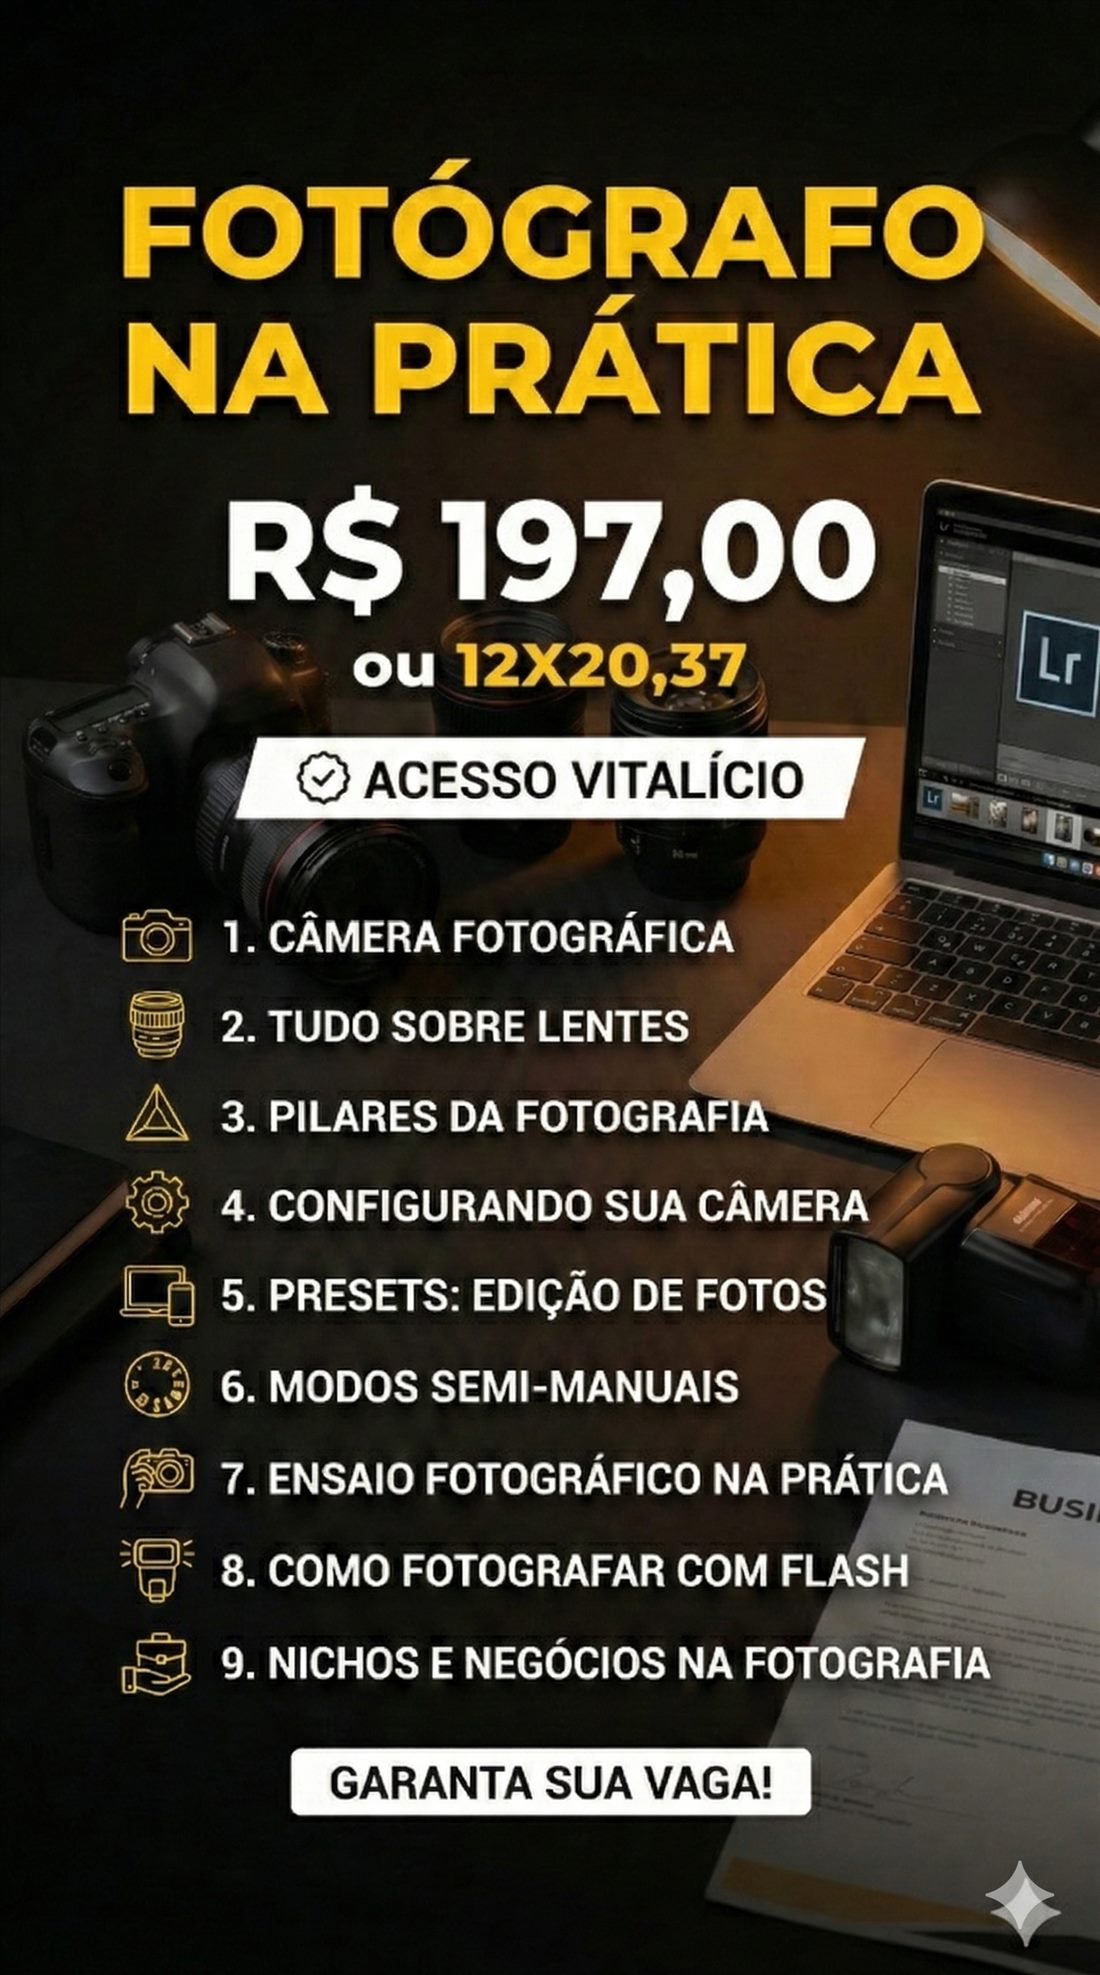
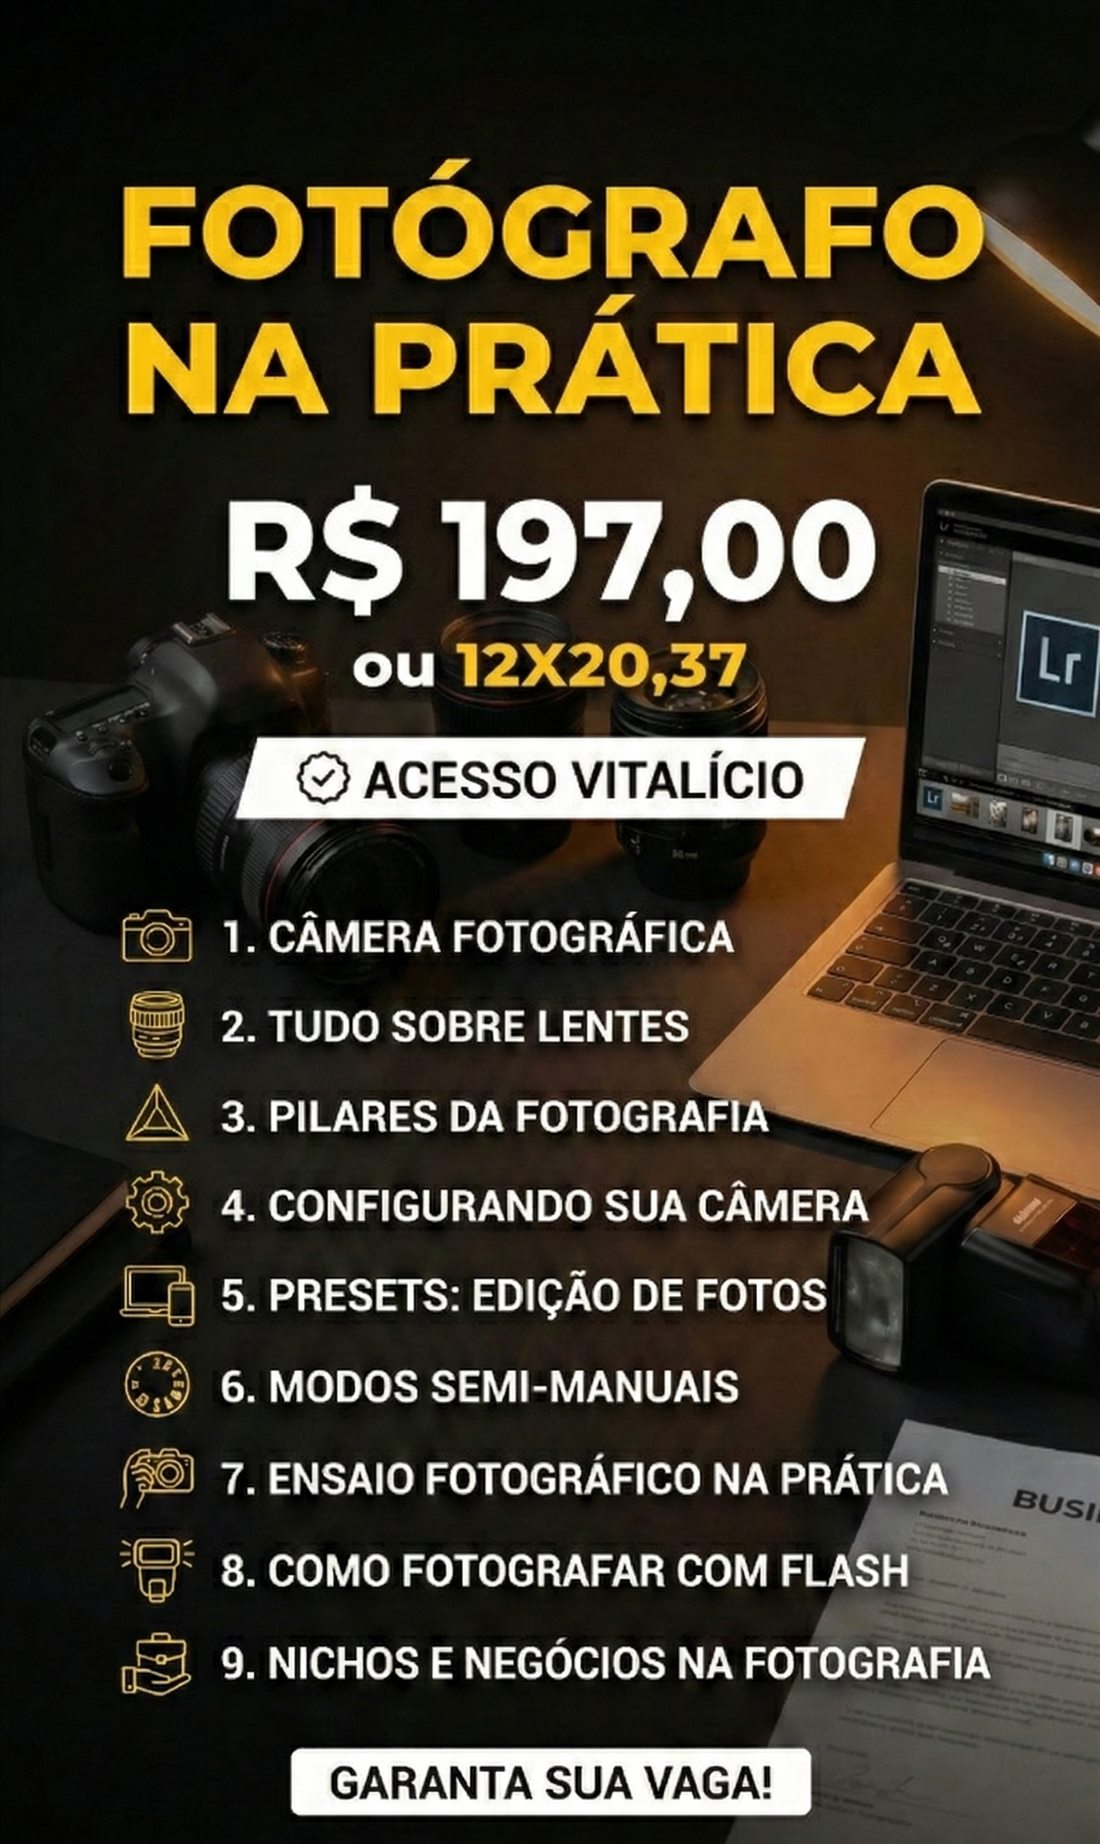
Recorta depoimentos e remove marca d'água das imagens
- Depoimentos mostram só o comentário (sem telefones nem interface), em cards centralizados
- Remove marca d'água do Gemini dos 9 módulos e da imagem de preço

diff --git a/index.html b/index.html
@@ -70,14 +70,16 @@
   <div class="container center">
     <h2 class="title">O QUE OS ALUNOS ESTÃO DIZENDO</h2>
   </div>
-  <div class="testimonials" tabindex="0" aria-label="Depoimentos de alunos">
-    <img src="img/depoimento-1.jpg" alt="Depoimento de aluno: Curso excelente! Sou aluno e recomendo muito! TMJ professor!" width="1080" height="2340" loading="lazy">
-    <img src="img/depoimento-2.jpg" alt="Depoimento de aluna: Só pra registrar que o seu curso é maravilhoso. Me ajudou bastante e tirou minhas dúvidas tbm. Muito obrigada!" width="1080" height="2340" loading="lazy">
-    <img class="t-wide" src="img/depoimento-3.jpg" alt="Depoimento de aluna: Comprei esse curso na semana passada! Estou nas primeiras aulas e tô adorando!!!" width="388" height="126" loading="lazy">
-    <img src="img/depoimento-4.jpg" alt="Depoimentos de alunos: Com toda certeza eu recomendo, inclusive é meu professor em dos seus cursos! Parabéns Vini! / Muito bom, ótimo profissional! Recomendo" width="1080" height="2340" loading="lazy">
-    <img src="img/depoimento-5.jpg" alt="Depoimento de aluna: Assisti o curso todo agora de manhã. Muito bem explicado, direto." width="1080" height="2340" loading="lazy">
+  <div class="container">
+    <div class="testimonials">
+      <figure class="t-card"><img src="img/depoimento-1.jpg" alt="Karlos Lustoza: Curso excelente! Sou aluno e recomendo muito! TMJ professor!" width="800" height="226" loading="lazy"></figure>
+      <figure class="t-card"><img src="img/depoimento-4.jpg" alt="lustozafotografia: Com toda certeza eu recomendo, inclusive é meu professor em dos seus cursos! Parabéns Vini!" width="800" height="175" loading="lazy"></figure>
+      <figure class="t-card"><img src="img/depoimento-3.jpg" alt="Ana Paula: Comprei esse curso na semana passada! Estou nas primeiras aulas e tô adorando!!!" width="388" height="126" loading="lazy"></figure>
+      <figure class="t-card"><img src="img/depoimento-2.jpg" alt="Aluna: Só pra registrar que o seu curso é maravilhoso. Me ajudou bastante e tirou minhas dúvidas tbm. Muito obrigada!" width="800" height="267" loading="lazy"></figure>
+      <figure class="t-card"><img src="img/depoimento-5.jpg" alt="vinicius_santoss96: Muito bom, ótimo profissional! Recomendo" width="800" height="136" loading="lazy"></figure>
+      <figure class="t-card"><img src="img/depoimento-6.jpg" alt="Aluna: Assisti o curso todo agora de manhã. Muito bem explicado, direto. Gostei muito da parte dos bilhetes. E amei a ideia do site de vendas de foto" width="800" height="777" loading="lazy"></figure>
+    </div>
   </div>
-  <p class="swipe-hint only-mobile">Arraste para o lado →</p>
 </section>
 
 <!-- ============ MÓDULOS ============ -->
@@ -268,7 +270,7 @@
 <section class="section offer" id="oferta">
   <div class="container center">
     <h2 class="title">COMECE AGORA POR SOMENTE:</h2>
-    <img class="offer-img" src="img/oferta.jpg" alt="Fotógrafo na Prática — R$ 197,00 ou 12x 20,37 — Acesso vitalício. 1. Câmera fotográfica; 2. Tudo sobre lentes; 3. Pilares da fotografia; 4. Configurando sua câmera; 5. Presets: edição de fotos; 6. Modos semi-manuais; 7. Ensaio fotográfico na prática; 8. Como fotografar com flash; 9. Nichos e negócios na fotografia. Garanta sua vaga!" width="1100" height="1975" loading="lazy">
+    <img class="offer-img" src="img/oferta.jpg" alt="Fotógrafo na Prática — R$ 197,00 ou 12x 20,37 — Acesso vitalício. 1. Câmera fotográfica; 2. Tudo sobre lentes; 3. Pilares da fotografia; 4. Configurando sua câmera; 5. Presets: edição de fotos; 6. Modos semi-manuais; 7. Ensaio fotográfico na prática; 8. Como fotografar com flash; 9. Nichos e negócios na fotografia. Garanta sua vaga!" width="1100" height="1844" loading="lazy">
     <p class="body-lg narrow-text">Se você quer aprender fotografia de verdade e começar a evoluir, essa é a sua oportunidade.</p>
     <a class="btn btn-pulse btn-lg" href="https://pay.hotmart.com/A78604559I?off=jdmzpn90">QUERO APRENDER FOTOGRAFIA AGORA</a>
     <p class="secure">🔒 Compra 100% segura</p>

diff --git a/style.css b/style.css
@@ -191,19 +191,13 @@ b, strong { font-weight: 700; }
 .duo { display: grid; grid-template-columns: 1.3fr 1fr; gap: 24px; align-items: center; margin-top: 40px; }
 
 /* ---------- Depoimentos ---------- */
-.testimonials {
-  display: flex; gap: 18px; align-items: center;
-  overflow-x: auto; scroll-snap-type: x mandatory;
-  padding: 10px max(20px, calc((100vw - 1120px) / 2 + 20px)) 20px;
-  scrollbar-width: thin; scrollbar-color: var(--gold) transparent;
+.testimonials { columns: 3 300px; column-gap: 20px; max-width: 1040px; margin: 10px auto 0; }
+.t-card {
+  break-inside: avoid; margin: 0 0 20px; padding: 10px;
+  background: var(--card); border: 1px solid var(--line); border-radius: 18px;
+  box-shadow: 0 14px 34px rgba(0, 0, 0, .45);
 }
-.testimonials img {
-  flex: 0 0 auto; width: 240px; border-radius: 22px;
-  border: 1px solid var(--line); scroll-snap-align: center;
-  box-shadow: 0 16px 40px rgba(0, 0, 0, .5);
-}
-.testimonials img.t-wide { width: 340px; border-radius: 12px; }
-.swipe-hint { text-align: center; color: var(--muted); font-size: 13px; margin: 6px 0 0; }
+.t-card img { width: 100%; border-radius: 10px; }
 
 /* ---------- Módulos ---------- */
 .modules { --gap: 16px; display: flex; flex-wrap: wrap; justify-content: center; gap: var(--gap); margin-top: 16px; }
@@ -307,8 +301,7 @@ b, strong { font-weight: 700; }
   .hero-content { margin-top: 24px; }
   .duo { grid-template-columns: 1fr; }
   .btn { width: 100%; padding: 16px 20px; }
-  .testimonials img { width: 72vw; max-width: 280px; }
-  .testimonials img.t-wide { width: 80vw; max-width: 340px; }
+  .testimonials { max-width: 460px; }
   .modules { --gap: 10px; }
   .play-icon { width: 64px; height: 64px; margin: -32px 0 0 -32px; }
   .play-icon::after { border-left-width: 20px; border-top-width: 12px; border-bottom-width: 12px; }
